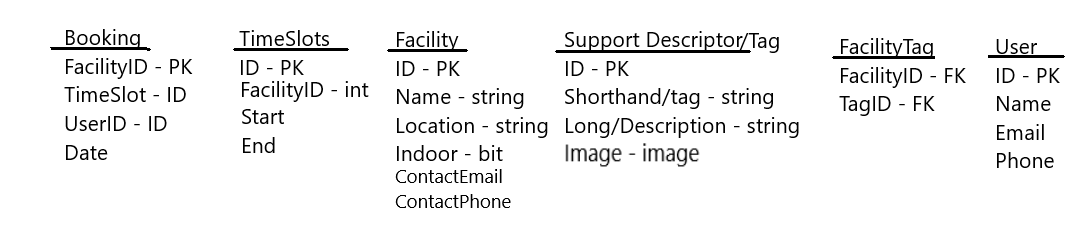
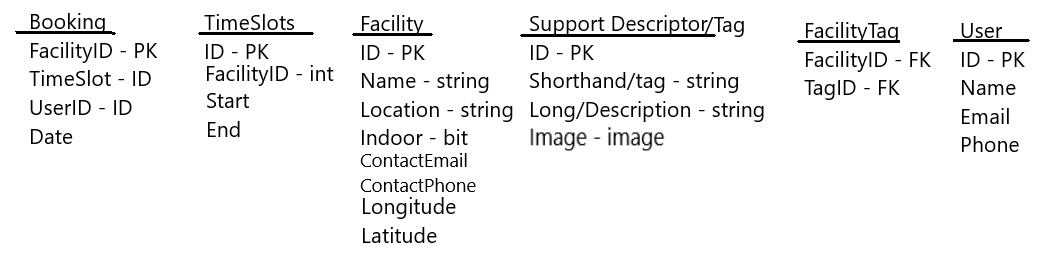
Update README.md, TESTING.md with new images

diff --git a/static/css/calender.css b/static/css/calender.css
@@ -1,5 +1,3 @@
-/* https://www.sliderrevolution.com/resources/html-calendar/ */
-
 main{
     width:fit-content;
     margin: 0 auto;

diff --git a/README.md b/README.md
@@ -2,6 +2,10 @@
 A website for booking the use of and making postings for sports facilities in the UK. 
 See [here](https://bookit-5p.herokuapp.com/) for the deployed site.
 
+### Note:
+See [Features](#features-left-to-implent) about current limitations
+
+
 ## User Stories
 - As a user I want to be able to create an account
 - As a user I want to be able to search for a facility by tag, location and radius
@@ -18,7 +22,7 @@ See [here](https://bookit-5p.herokuapp.com/) for the deployed site.
 - As a admin I want to be able to create new tags
 - As a admin I want to be able to modify existing tags
 - As a admin I want to be able to be able to delete existing tags
-- As a admin I want to be able to make changes
+- As a admin I want to be able to make changes to any facility
 
 ## UX
 As the site revolves around a single purpose I chose to keep the UX simple and have multiple ways to this main purpose,(which is booking a sports facility) at a time, so that the user is always able to get to the search page.
@@ -26,12 +30,6 @@ As the site revolves around a single purpose I chose to keep the UX simple and h
 For the actual booking page, I will be using a calendar and a table, from which the user will select a date from the calendar and the table will be updated to display a list times. This will be an easy to understand and use system, while also being easy to display on both mobile and desktop devices.
 
 All admin/owner pages will be table layouts as they will be mainly just displaying data and this will be the easiest and most concise way to display such data.
-
-### Color Scheme
-I will be using only two colors for the site, Blue, #1d71b8 and Green, #44ad47. 
-
-### Typography
-Gill Sans. I do not feel multiple are needed for a simple site.
 
 ### Wireframes
 Register
@@ -58,6 +56,9 @@ Modify Timeslots
 Modify Facility Tags
 ![](documentation/facility_tags.png)
 
+### ERD
+Entity Relationship Diagram that I used to create 
+![](documentation/entity_diagram.png)
 ## Features
 ### Existing Features
 - Nav bar leading to differnt pages
@@ -65,13 +66,12 @@ Modify Facility Tags
 
 - Form to search for facilities on index
     - Takes a tag via drop down
-    - A location (preferably a town)
+    - A location (preferably a town/city in the GB)
     - A distance in miles
     ![](documentation/screenshots/search_form.png)
 
 - A list of sports offered
     - Taken from the "Tag" table and updates live to reflect the table
-    - (Take again without placeholders)
     ![](documentation/screenshots/sports_cards.png)
 
 - Clickable calendar to visually choose what date you want
@@ -123,8 +123,10 @@ Modify Facility Tags
 - Updating a timeslots involves entire of CRUD
 ![](documentation/CRUD/timeslots_whole_crud.png)
 ## Features left to implent
-- Use googles geocode api as its more precise (currently it is paid for)
-- Have a clickable map for facility owners to select where there facility it
+- As currently the geocoder I am using does not know the location of some places and is a bit off for others, it will default to a placeholder location to get around this I'd like to do one of the two, or both:
+    - Use googles geocode api as its more precise (currently it is paid for)
+    - Have a clickable map for facility owners to select where there facility it
+
 - Email updates to users when booked or cancelled
 - Show available days on results screen
 
@@ -188,7 +190,8 @@ The following steps will all be done in your IDE Terminal
 ## Technologies used
 - I used [git](https://git-scm.com/) for version control and storage.
 - To help with using git, I used [github](https://github.com/).
-
+- I used github projects to keep track of where I was in my project
+![](documentation/projects.png)
 - I used [html](https://en.wikipedia.org/wiki/HTML) to design the site.
 - And [CSS](https://en.wikipedia.org/wiki/CSS) to style the site.
 - For most of the sites layout ive used [Bootstrap](https://getbootstrap.com/) and its many [examples](https://getbootstrap.com/docs/5.2/examples/) to help with quick development

diff --git a/TESTING.md b/TESTING.md
@@ -66,5 +66,38 @@ Screenshots taken on mobile for the two pages that a user who is booking would s
 ![](documentation/testing/search_result_mobile.png)
 
 # Code Validation
-- PEP8 validation for view.py, giving no errors or warnings
+## Python
+- Validation for view.py, giving no errors or warnings
 ![](documentation/view_py.png)
+- Validation for forms.py
+![](documentation/testing/forms.png)
+- Validation for group_check.py
+![](documentation/testing/group_check.png)
+- Validation for month_name.py
+![](documentation/testing/month_name.png)
+- Validation for ordinal_format.png
+![](documentation/testing/ordinal_format.png)
+- Validation for models.py
+![](documentation/testing/models.png)
+- Validation for urls.py 
+![](documentation/testing/urls.png)
+
+## HTML
+Validated using https://validator.w3.org, not all pages were passed through validator as aside from those linked below all require you to be logged in.
+- [Index](https://validator.w3.org/nu/?doc=https%3A%2F%2Fbookit-5p.herokuapp.com)
+- [Login](https://validator.w3.org/nu/?doc=https://bookit-5p.herokuapp.com/login)
+- [Register](https://validator.w3.org/nu/?doc=https://bookit-5p.herokuapp.com/register)
+
+## CSS
+For css I have used https://jigsaw.w3.org/css-validator to validate my stylesheets
+- [calender.css](https://jigsaw.w3.org/css-validator/validator?uri=https%3A%2F%2Fres.cloudinary.com%2Fdcjvfcg2q%2Fraw%2Fupload%2Fv1653754742%2Fstatic%2Fcss%2Fcalender.ba4248a0e6d9.css&profile=css3svg&usermedium=all&warning=1&vextwarning=&lang=en)
+- [edit_tags.css](https://jigsaw.w3.org/css-validator/validator?uri=https%3A%2F%2Fres.cloudinary.com%2Fdcjvfcg2q%2Fraw%2Fupload%2Fv1651229170%2Fstatic%2Fcss%2Fedit_tags.ca532f4f9149.css&profile=css3svg&usermedium=all&warning=1&vextwarning=&lang=en)
+- [index.css](https://jigsaw.w3.org/css-validator/validator?uri=https%3A%2F%2Fres.cloudinary.com%2Fdcjvfcg2q%2Fraw%2Fupload%2Fv1653569905%2Fstatic%2Fcss%2Findex.88d033533e16.css&profile=css3svg&usermedium=all&warning=1&vextwarning=&lang=en)
+- [list_facility.css](https://jigsaw.w3.org/css-validator/validator?uri=https%3A%2F%2Fres.cloudinary.com%2Fdcjvfcg2q%2Fraw%2Fupload%2Fv1653868144%2Fstatic%2Fcss%2Flist_facility.1d04c4500c10.css&profile=css3svg&usermedium=all&warning=1&vextwarning=&lang=en)
+- [list_tags.css](https://jigsaw.w3.org/css-validator/validator?uri=https%3A%2F%2Fres.cloudinary.com%2Fdcjvfcg2q%2Fraw%2Fupload%2Fv1653868144%2Fstatic%2Fcss%2Flist_tags.8994ac72288d.css&profile=css3svg&usermedium=all&warning=1&vextwarning=&lang=en)
+- [login.css](https://jigsaw.w3.org/css-validator/validator?uri=https%3A%2F%2Fres.cloudinary.com%2Fdcjvfcg2q%2Fraw%2Fupload%2Fv1653564284%2Fstatic%2Fcss%2Flogin.b0671f9ed80e.css&profile=css3svg&usermedium=all&warning=1&vextwarning=&lang=en)
+- [modal.css](https://jigsaw.w3.org/css-validator/validator?uri=https%3A%2F%2Fres.cloudinary.com%2Fdcjvfcg2q%2Fraw%2Fupload%2Fv1653569904%2Fstatic%2Fcss%2Fmodal.ad6eb2a34f31.css&profile=css3svg&usermedium=all&warning=1&vextwarning=&lang=en)
+- [modify_facility_tags.css](https://jigsaw.w3.org/css-validator/validator?uri=https%3A%2F%2Fres.cloudinary.com%2Fdcjvfcg2q%2Fraw%2Fupload%2Fv1653564284%2Fstatic%2Fcss%2Fmodify_facility_tags.243e84a9bbb7.css&profile=css3svg&usermedium=all&warning=1&vextwarning=&lang=en)
+- [modify_timeslots.css](https://jigsaw.w3.org/css-validator/validator?uri=https%3A%2F%2Fres.cloudinary.com%2Fdcjvfcg2q%2Fraw%2Fupload%2Fv1653564283%2Fstatic%2Fcss%2Fmodify_timeslots.ea40933244ba.css&profile=css3svg&usermedium=all&warning=1&vextwarning=&lang=en)
+- [Search_results.css](https://jigsaw.w3.org/css-validator/validator?uri=https%3A%2F%2Fres.cloudinary.com%2Fdcjvfcg2q%2Fraw%2Fupload%2Fv1653868144%2Fstatic%2Fcss%2Fsearch_results.73235d1e58a0.css&profile=css3svg&usermedium=all&warning=1&vextwarning=&lang=en)
+- [style.css](https://res.cloudinary.com/dcjvfcg2q/raw/upload/v1653564282/static/css/style.c73d8f77d3d4.css)
